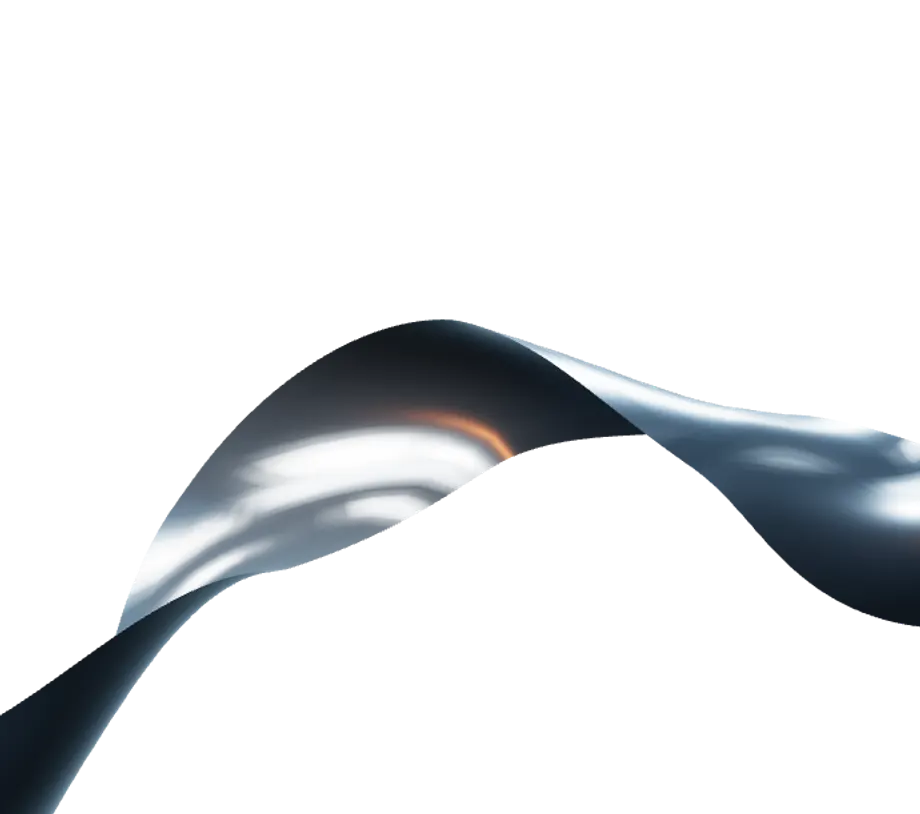
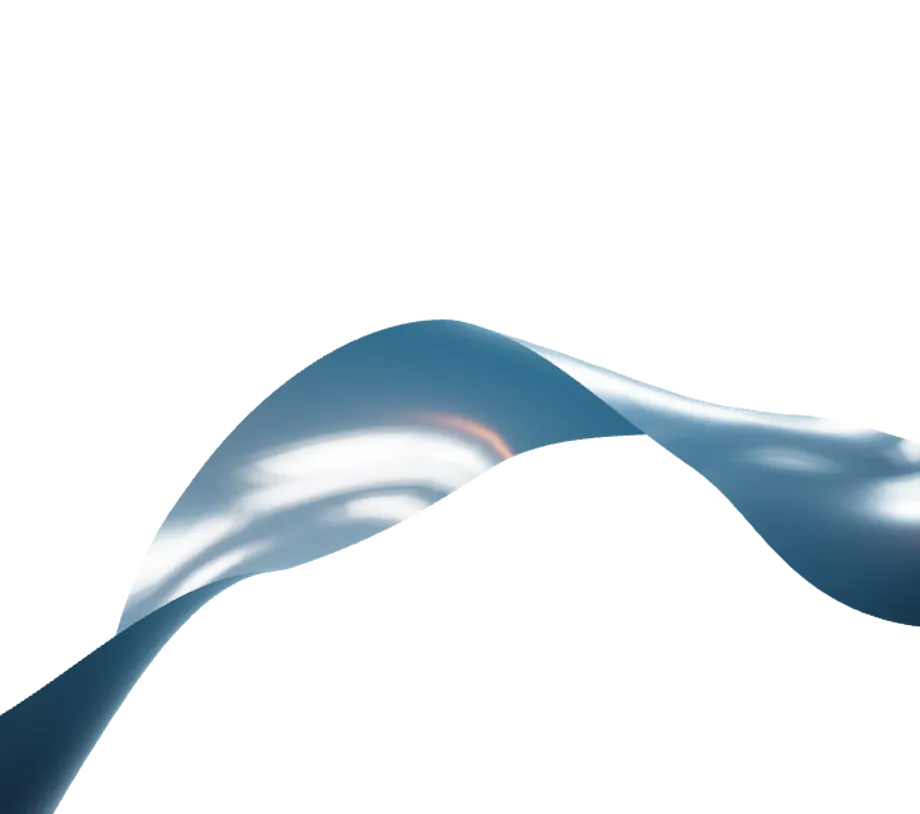
Keep ribbon whole on scroll; visible Gaussian glow behind helmet and along ribbon
Ribbon no longer shifts down on scroll (its left end was leaving the
canvas). Glow uses normal blending at 0.44 peak plus a weaker band along
the ribbon; adds a numeric measurement script.

Changed region(s): [[0.0, 0.3686, 1.0, 1.0]]

diff --git a/scene.js b/scene.js
@@ -158,6 +158,8 @@ export function makeRibbon(pal, mobile) {
   const rimCol = pal.text.clone().lerp(pal.accent2, 0.55);
   const shadow = { value: new THREE.Vector4(0, 0, 1, 1) };
   const shadowK = { value: 0 };
+  const inner = { value: new THREE.Vector4(0, 0, 1, 0) };
+  const innerCol = glowColor();
   const mat = new THREE.MeshPhysicalMaterial({
     color: front, metalness: 0.92, roughness: 0.22,
     clearcoat: 1, clearcoatRoughness: 0.18, envMapIntensity: 1.0,
@@ -166,13 +168,15 @@ export function makeRibbon(pal, mobile) {
   mat.onBeforeCompile = (shader) => {
     shader.uniforms.uShadow = shadow;
     shader.uniforms.uShadowK = shadowK;
+    shader.uniforms.uInner = inner;
+    shader.uniforms.uInnerCol = { value: innerCol };
     shader.uniforms.uBack = { value: backCol };
     shader.uniforms.uRim = { value: rimCol };
     shader.vertexShader = shader.vertexShader
       .replace('#include <common>', '#include <common>\nvarying vec2 vzXY;')
       .replace('#include <begin_vertex>', '#include <begin_vertex>\nvzXY = position.xy;');
     shader.fragmentShader = shader.fragmentShader
-      .replace('#include <common>', '#include <common>\nvarying vec2 vzXY;\nuniform vec4 uShadow;\nuniform float uShadowK;\nuniform vec3 uBack;\nuniform vec3 uRim;')
+      .replace('#include <common>', '#include <common>\nvarying vec2 vzXY;\nuniform vec4 uShadow;\nuniform float uShadowK;\nuniform vec3 uBack;\nuniform vec3 uRim;\nuniform vec4 uInner;\nuniform vec3 uInnerCol;')
       .replace('#include <color_fragment>', '#include <color_fragment>\nif (!gl_FrontFacing) diffuseColor.rgb = uBack;')
       .replace('#include <opaque_fragment>', `
         /* френель: тонке холодне світіння на згинах і краях, щоб силует читався на темному */
@@ -181,6 +185,9 @@ export function makeRibbon(pal, mobile) {
         /* м'яка тінь від шолома на стрічці за ним */
         vec2 vzD = (vzXY - uShadow.xy) / uShadow.zw;
         outgoingLight *= 1.0 - uShadowK * exp(-dot(vzD, vzD));
+        /* світіння зсередини біля шолома: згасає за Гаусом уздовж стрічки */
+        vec2 vzG = (vzXY - uInner.xy) / uInner.z;
+        outgoingLight += uInnerCol * uInner.w * exp(-dot(vzG, vzG) * 2.2);
         #include <opaque_fragment>`);
   };
 
@@ -253,27 +260,34 @@ export function makeRibbon(pal, mobile) {
     mesh, update,
     setShadow(x, y, rx, ry, k) { shadow.value.set(x, y, rx, ry); shadowK.value = k; },
     maxWorldZ() { return RIBBON_Z + maxZ * depthScale; },
+    /* центр стрічки за шоломом (площина екрана) */
+    mid() { return ctrl[3]; },
+    /* стрічка біля шолома світиться зсередини: x, y центру, радіус, сила */
+    setGlow(x, y, r, k) { inner.value.set(x, y, r, k); },
   };
 }
 
-/* Світіння за шоломом: один шейдерний квад з аддитивним змішуванням, без постобробки.
+/* Світіння за шоломом: один шейдерний квад зі звичайним (не аддитивним) змішуванням, без постобробки.
+   Дві складові: кругла пляма за шоломом і витягнута вздовж стрічки, у 1.5 раза слабша.
    Альфа спадає за Гаусом і доходить до нуля задовго до краю квада, тож межі не видно ніде.
    Зверху світіння гаситься біля низу кнопки: кнопка й текст лишаються на чистому тлі. */
 const GLOW_Z = -1.5;
-const GLOW_PEAK = 0.18; /* найбільша непрозорість у центрі */
+const GLOW_PEAK = 0.44;            /* непрозорість у центрі плями за шоломом */
+const GLOW_BAND = GLOW_PEAK / 1.5; /* вздовж стрічки */
+const GLOW_W = 4.2, GLOW_H = 2.4;  /* розмір квада в сторонах постера шолома */
+export function glowColor() {
+  const css = getComputedStyle(document.documentElement);
+  return new THREE.Color(css.getPropertyValue('--glow').trim());
+}
 function makeGlow(pal) {
-  /* глибший і насиченіший відтінок --accent-2 (у CSS це --glow) */
-  const hsl = {}; pal.accent2.getHSL(hsl);
-  const deep = new THREE.Color().setHSL(hsl.h + 0.015, Math.min(1, hsl.s * 1.05), hsl.l * 0.72);
+  const col = glowColor(); /* світлий холодний відтінок акценту, oklch(0.70 0.10 235) */
   const mat = new THREE.ShaderMaterial({
     transparent: true, depthWrite: false, toneMapped: false,
-    /* чисте додавання кольору поверх тла сторінки; альфу canvas не чіпаємо */
-    blending: THREE.CustomBlending, blendSrc: THREE.OneFactor, blendDst: THREE.OneFactor,
-    blendSrcAlpha: THREE.ZeroFactor, blendDstAlpha: THREE.OneFactor,
+    blending: THREE.CustomBlending, blendSrc: THREE.OneFactor, blendDst: THREE.OneMinusSrcAlphaFactor,
     uniforms: {
-      uDeep: { value: deep.clone().convertLinearToSRGB() },
-      uCore: { value: pal.accent2.clone().convertLinearToSRGB() },
-      uK: { value: GLOW_PEAK }, uTop: { value: 10 }, uFade: { value: 1 },
+      uCol: { value: col.clone().convertLinearToSRGB() },
+      uK: { value: 1 }, uTop: { value: 10 }, uFade: { value: 1 }, uUp: { value: 1 },
+      uBand: { value: new THREE.Vector3(0, 0, 0.1) }, /* зсув центру смуги (у сторонах шолома) і її нахил */
     },
     vertexShader: /* glsl */ `
       varying vec2 vUv; varying float vY;
@@ -285,21 +299,27 @@ function makeGlow(pal) {
       }`,
     fragmentShader: /* glsl */ `
       precision highp float;
-      uniform vec3 uDeep; uniform vec3 uCore;
-      uniform float uK; uniform float uTop; uniform float uFade;
+      uniform vec3 uCol; uniform vec3 uBand;
+      uniform float uK; uniform float uTop; uniform float uFade; uniform float uUp;
       varying vec2 vUv; varying float vY;
       float hash(vec2 p) { return fract(sin(dot(p, vec2(12.9898, 78.233))) * 43758.5453); }
       void main() {
-        vec2 d = (vUv - 0.5) * 2.0;
-        float r2 = dot(d, d);
-        /* Гаус + вікно, яке дає рівно нуль уже на 85 % радіуса */
-        float a = exp(-r2 * 7.0) * smoothstep(0.85, 0.35, sqrt(r2));
-        /* до центру трохи світліше, до країв — глибокий холодний тон, що тане в тлі */
-        vec3 col = mix(uDeep, uCore, exp(-r2 * 30.0) * 0.5);
+        /* координати в сторонах постера шолома, центр — шолом */
+        vec2 d = (vUv - 0.5) * vec2(${GLOW_W.toFixed(1)}, ${GLOW_H.toFixed(1)});
+        /* угору (до кнопки) Гаус стиснутий так, щоб сам дійти до нуля біля низу кнопки: без «полички» */
+        d.y *= mix(1.0, uUp, smoothstep(-0.2, 0.2, d.y));
+        float r = length(d);
+        /* пляма за шоломом: Гаус, рівно нуль на радіусі 1.0 */
+        float g1 = exp(-r * r / 0.19) * smoothstep(1.0, 0.55, r);
+        /* смуга вздовж стрічки: вузький Гаус упоперек, довгий уздовж */
+        vec2 e = d - uBand.xy;
+        float cs = cos(uBand.z), sn = sin(uBand.z);
+        e = vec2(cs * e.x + sn * e.y, -sn * e.x + cs * e.y);
+        float g2 = exp(-(e.x * e.x / 0.62 + e.y * e.y / 0.045)) * smoothstep(1.5, 0.8, abs(e.x)) * smoothstep(0.75, 0.35, abs(e.y));
+        float a = ${GLOW_PEAK.toFixed(3)} * g1 + ${GLOW_BAND.toFixed(3)} * g2 * (1.0 - 0.6 * g1);
         a *= uK * smoothstep(uTop, uTop - uFade, vY);
-        /* дизеринг проти смуг на плавному градієнті */
-        vec3 outc = col * a + (hash(gl_FragCoord.xy) - 0.5) / 255.0;
-        gl_FragColor = vec4(max(outc, 0.0), 0.0);
+        a = clamp(a + (hash(gl_FragCoord.xy) - 0.5) / 255.0 * step(0.002, a), 0.0, 1.0); /* дизеринг проти смуг */
+        gl_FragColor = vec4(uCol * a, a);
       }`,
   });
   const mesh = new THREE.Mesh(new THREE.PlaneGeometry(1, 1), mat);
@@ -307,22 +327,25 @@ function makeGlow(pal) {
   mesh.frustumCulled = false;
   const group = new THREE.Group();
   group.add(mesh);
-  /* справжнє світло від ореолу: ледь підсвічує стрічку за шоломом */
-  const light = new THREE.PointLight(deep, 2.4, 7, 2);
+  /* справжнє світло від ореолу: підсвічує стрічку за шоломом */
+  const light = new THREE.PointLight(col, 2.4, 7, 2);
   group.add(light);
   const f = (CAM_Z - GLOW_Z) / CAM_Z;
 
-  /* cx, cy — центр шолома в площині екрана; top — низ кнопки; k — сила (0..1) */
-  function place(cx, cy, side, shrink, t, px, py, k, top) {
-    mesh.position.set((cx - px * 0.03 * side) * f, (cy - 0.03 * side + py * 0.02 * side) * f, GLOW_Z);
-    mesh.scale.setScalar(3.1 * side * f * shrink); /* видимий ореол ≈ 2–2.5 ширини шолома */
-    mat.uniforms.uK.value = GLOW_PEAK * k * (1 + 0.06 * Math.sin(W * t));
+  /* cx, cy — центр шолома в площині екрана; top — низ кнопки; k — сила (0..1); bx, by — центр стрічки за шоломом */
+  function place(cx, cy, side, shrink, t, px, py, k, top, bx, by) {
+    const gx = cx - px * 0.03 * side, gy = cy - 0.06 * side + py * 0.02 * side;
+    mesh.position.set(gx * f, gy * f, GLOW_Z);
+    mesh.scale.set(GLOW_W * side * f * shrink, GLOW_H * side * f * shrink, 1);
+    mat.uniforms.uK.value = k * (1 + 0.05 * Math.sin(W * t));
     mat.uniforms.uTop.value = top * f;
-    mat.uniforms.uFade.value = 0.3 * side * f;
+    mat.uniforms.uFade.value = 0.1 * side * f; /* запобіжник; основне згасання дає стиснутий Гаус */
+    mat.uniforms.uUp.value = Math.max(1, 0.9 / Math.max(0.05, (top - gy) / (side * shrink)));
+    mat.uniforms.uBand.value.set((bx - gx) / side, (by - gy) / side, -0.06);
     light.position.set(cx * 1.12, (cy + 0.1 * side) * 1.12, -1.2);
     light.intensity = 2.4 * k * side * side / 3.2;
   }
-  return { group, place };
+  return { group, place, color: col };
 }
 
 /* ---------- Сцена першого екрана ---------- */
@@ -404,7 +427,8 @@ export function initHero({ canvas, hero, anchor, limitEl, mobile, onFirstFrame, 
   /* Розставляє все для моменту t; lift — наскільки шолом піднявся над базовою точкою. */
   function place(t, s, ease, px, py) {
     ribbon.update(t, L);
-    ribbon.mesh.position.y = -s * 0.5; /* при прокрутці стрічка йде вниз, шолом угору */
+    /* Стрічка при прокрутці не зсувається: раніше вона йшла вниз, і її лівий нижній кінець
+       виходив за нижню межу canvas. Тепер це один об'єкт, який цілком гасне разом зі сценою. */
 
     const bob = Math.sin(t * 0.9) * 0.035 * ease * state.scale;
     /* шолом піднімається рівно на ті самі 60 px, що й текст: вони йдуть разом і не наїжджають одне на одного */
@@ -420,15 +444,21 @@ export function initHero({ canvas, hero, anchor, limitEl, mobile, onFirstFrame, 
       helmet.rotation.z = BASE_ROT.z + Math.sin(t * 0.7 + 1.0) * 0.015 * ease;
     }
     /* Світіння за шоломом їде разом із ним і гасне при прокрутці. */
-    glow.place(state.baseX, state.baseY + lift, state.side, shrink, t, px, py, 1 - s, L.glowTop);
+    const mid = ribbon.mid();
+    /* при прокрутці світіння лишається з шоломом (трохи слабшає) і гасне разом з усією сценою */
+    const gk = 1 - 0.35 * s;
+    glow.place(state.baseX, state.baseY + lift, state.side, shrink, t, px, py, gk, L.glowTop, mid.x, mid.y);
+    ribbon.setGlow(state.baseX, mid.y, 0.95 * state.side, 0.3 * gk);
     /* Тінь на стрічці за шоломом: слабшає, коли шолом іде вгору. */
     ribbon.setShadow(state.baseX + 0.03 * state.side, state.baseY + lift - 0.1 * state.side + s * 0.8,
       0.36 * state.side, 0.22 * state.side, 0.4 * (helmet ? 1 : 0.6) * (1 - s));
   }
 
+  let held = false; /* для інструментів: кадр завмирає, цикл живий */
   function frame() {
     raf = 0;
     if (!running) return;
+    if (held) { clock.getDelta(); raf = requestAnimationFrame(frame); return; }
     const dt = Math.min(clock.getDelta(), 0.05);
     time += dt;
     layout();
@@ -486,6 +516,8 @@ export function initHero({ canvas, hero, anchor, limitEl, mobile, onFirstFrame, 
     renderer, scene, camera, rig, glow: glow.group, ribbon: ribbon.mesh,
     get running() { return running; },
     get time() { return time; },
+    /* Для інструментів (tools/): заморозити поточний кадр, не зупиняючи цикл. */
+    hold(on) { held = !!on; },
     /* Запас по глибині між найближчою точкою стрічки і найдальшою точкою шолома (одиниці сцени). */
     depthGap() { return (HELMET_Z - 0.75 * state.scale * NEAR) - ribbon.maxWorldZ(); },
     /* Для інструментів (tools/): нерухомий кадр без анімації. */

diff --git a/styles.css b/styles.css
@@ -8,7 +8,7 @@
   --muted: #A1ACB9;     /* oklch(0.740 0.022 250) */
   --accent: #F38230;    /* oklch(0.720 0.165 52)  — помаранчевий анод, головна кнопка */
   --accent-2: #5BBEED;  /* oklch(0.760 0.115 232) — крижаний блік, деталі */
-  --glow: #1387D8;      /* похідний: глибший відтінок --accent-2, лише для світіння за шоломом */
+  --glow: #5AA8D4;      /* oklch(0.70 0.10 235) — похідний від --accent-2, лише для світіння за шоломом */
 
   --line: color-mix(in oklab, var(--muted) 22%, transparent);
   --line-strong: color-mix(in oklab, var(--muted) 42%, transparent);
@@ -157,16 +157,20 @@ button, input, select, textarea { font: inherit; color: inherit; }
   transition: opacity .5s ease;
 }
 .hero__glow { /* світіння за шоломом для постера і статичного режиму; у живій сцені його малює шейдер */
-  position: absolute; z-index: 1; pointer-events: none; left: 50%; top: calc(100% - var(--helm) * 0.60);
-  width: calc(var(--helm) * 2.1); aspect-ratio: 1; transform: translate(-50%, -50%);
-  background: radial-gradient(closest-side,
-    color-mix(in oklab, color-mix(in oklab, var(--glow) 80%, var(--accent-2)) 30%, transparent) 0%,
-    color-mix(in oklab, var(--glow) 17%, transparent) 30%,
-    color-mix(in oklab, var(--glow) 5%, transparent) 58%, transparent 80%);
-  filter: blur(70px);
+  position: absolute; z-index: 1; pointer-events: none; left: 50%; top: calc(100% - var(--helm) * 0.63);
+  width: calc(var(--helm) * 3.4); height: calc(var(--helm) * 1.9); transform: translate(-50%, -50%);
+  background:
+    radial-gradient(calc(var(--helm) * 0.86) calc(var(--helm) * 0.86) at 50% 50%,
+      color-mix(in oklab, var(--glow) 56%, transparent) 0%,
+      color-mix(in oklab, var(--glow) 34%, transparent) 30%,
+      color-mix(in oklab, var(--glow) 10%, transparent) 62%, transparent 100%),
+    radial-gradient(48% 16% at 50% 52%,
+      color-mix(in oklab, var(--glow) 26%, transparent) 0%,
+      color-mix(in oklab, var(--glow) 8%, transparent) 60%, transparent 100%);
+  filter: blur(46px);
   /* зверху гасимо до нуля біля низу кнопки: кнопка і текст на чистому тлі */
-  -webkit-mask-image: linear-gradient(to bottom, transparent calc(50% - var(--helm) * 0.26), #000 calc(50% + var(--helm) * 0.08));
-  mask-image: linear-gradient(to bottom, transparent calc(50% - var(--helm) * 0.26), #000 calc(50% + var(--helm) * 0.08));
+  -webkit-mask-image: linear-gradient(to bottom, transparent calc(50% - var(--helm) * 0.20), #000 calc(50% + var(--helm) * 0.04));
+  mask-image: linear-gradient(to bottom, transparent calc(50% - var(--helm) * 0.20), #000 calc(50% + var(--helm) * 0.04));
   transition: opacity .9s ease;
 }
 .hero.is-live .hero__glow { opacity: 0; }

diff --git a/README.md b/README.md
@@ -68,7 +68,9 @@ Netlify: перетягніть теку в Netlify Drop або підключі
 - Матеріал стрічки: `MeshPhysicalMaterial` (metalness 0.92, roughness 0.22, clearcoat), відбиває те саме оточення, що й шолом. Основа — світлий титан із палітри; блакитний і трохи помаранчевого проступають лише у відбиттях світлових панелей. Плюс тонке світіння по френелю на згинах.
 - Рух: повільна хвиля контрольних точок і «дихання» скручування з циклом 10 секунд.
 - Стрічка цілком за шоломом: вона на z ≈ −3, шолом на z = 0.8, запас по глибині не менше 2.3 одиниці сцени в будь-якому кадрі. Верх стрічки обмежений низом кнопки (`limitEl` у `initHero`), тому під текст і кнопку вона не заходить. При прокрутці шолом піднімається і зменшується, а не йде вглиб.
-- Підсвітка: за шоломом один шейдерний квад з аддитивним змішуванням. Альфа спадає за Гаусом і доходить до нуля задовго до краю, тож межі не видно; є дизеринг проти смуг. Пік непрозорості 0.18, видимий ореол приблизно у 2–2.5 ширини шолома. Колір `--glow` — глибший відтінок `--accent-2`, до центру трохи світліший. Зверху світіння гаситься біля низу кнопки, тому кнопка й текст лишаються на чистому тлі. Плюс контровий світильник ззаду-згори і тонкий френелевий контур на шоломі. Постобробки й bloom немає. Для постера і статичного режиму те саме робить `.hero__glow` (radial-gradient + `filter: blur(70px)` + маска згори).
+- Підсвітка: за шоломом один шейдерний квад зі звичайним змішуванням. Дві складові: кругла пляма (непрозорість у центрі 0.44, діаметр близько 2.5 ширини шолома) і смуга вздовж стрічки, у 1.5 раза слабша. Спад за Гаусом до повного нуля, дизеринг проти смуг. Колір `--glow` `#5AA8D4`, oklch(0.70 0.10 235). Угору Гаус стиснутий так, що сам доходить до нуля біля низу кнопки. Стрічка біля шолома додатково світиться зсередини (емісія в її шейдері). Плюс контровий світильник і тонкий френелевий контур на шоломі. Постобробки й bloom немає. Для постера і статичного режиму те саме робить `.hero__glow`.
+- Стрічка при прокрутці не зсувається. Раніше вона йшла вниз, і її лівий нижній кінець виходив за нижню межу canvas (виглядало як зникнення лівої частини). `frustumCulled` у стрічки вимкнено, камера нерухома.
+- `tools/measure-glow.mjs` міряє світіння числами по скриншоту 1440×900 (OKLab L): поруч із шоломом ΔL до 0.24 (медіана 0.15), на межі плями |ΔL| ≤ 0.0007, біля країв екрана ≤ 0.0004, внесок у зонах тексту і кнопки 0; стрічка покриває 100 % ширини на 0, 25 і 50 % прокрутки.
 - Текст першого екрана при прокрутці зникає і їде вгору на 60 px (тільки `opacity` і `transform`), прив'язано до скролу: CSS scroll-driven animations (`@keyframes hero-out` у `styles.css`), а де їх немає — фолбек на `requestAnimationFrame` у `script.js` з тими самими відрізками. Каскад: плашка 0–38 %, заголовок 3–42 %, підзаголовок 6–46 %, кнопка 9–50 % висоти екрана. Шолом іде вгору на ті самі 60 px, зменшується і трохи відвертається на тому ж відрізку з тим самим пом'якшенням. Коли кнопка майже зникла (прокрутка понад 36 % висоти екрана), вона не клікається і не ловить фокус. З `prefers-reduced-motion` текст не рухається і не зникає.
 - На стрічці за шоломом — м'яка тінь, яка слабшає, коли шолом піднімається.
 - `tools/check-hero.mjs` перевіряє це покадрово на 375, 768 і 1440 px (30 кадрів циклу з курсором по кутах і прокрутка до 50 %): стрічка не накладається на текст і кнопку (0 пікселів), запас по глибині ≥ 2.3, шолом не обрізаний знизу, 61 кадр/с.

diff --git a/DESIGN.md b/DESIGN.md
@@ -54,7 +54,7 @@
 
 Текст поверх сцени: стрічка обмежена зверху низом кнопки й не заходить під текст; світіння за шоломом гаситься біля низу кнопки. За реальними скриншотами (`tools/check-contrast.mjs`, 5 розмірів екрана, живий і статичний режим) під текстом чисте тло, контраст приглушеного тексту 8.35:1. Кнопка має власний непрозорий фон (16.92:1).
 
-Похідний колір `--glow` `#1387D8` — глибший відтінок `--accent-2` (той самий тон, менша світлота); використовується лише для світіння за шоломом з непрозорістю до 0.18, текстом і заливкою не буває.
+Похідний колір `--glow` `#5AA8D4`, oklch(0.70 0.10 235) — світлий холодний відтінок `--accent-2`; використовується лише для світіння за шоломом і вздовж стрічки (непрозорість до 0.44), текстом і заливкою не буває.
 
 ## Шрифти
 - Заголовки: **Geologica** 500/600 — геометричний гротеск із характером, повна кирилиця.
